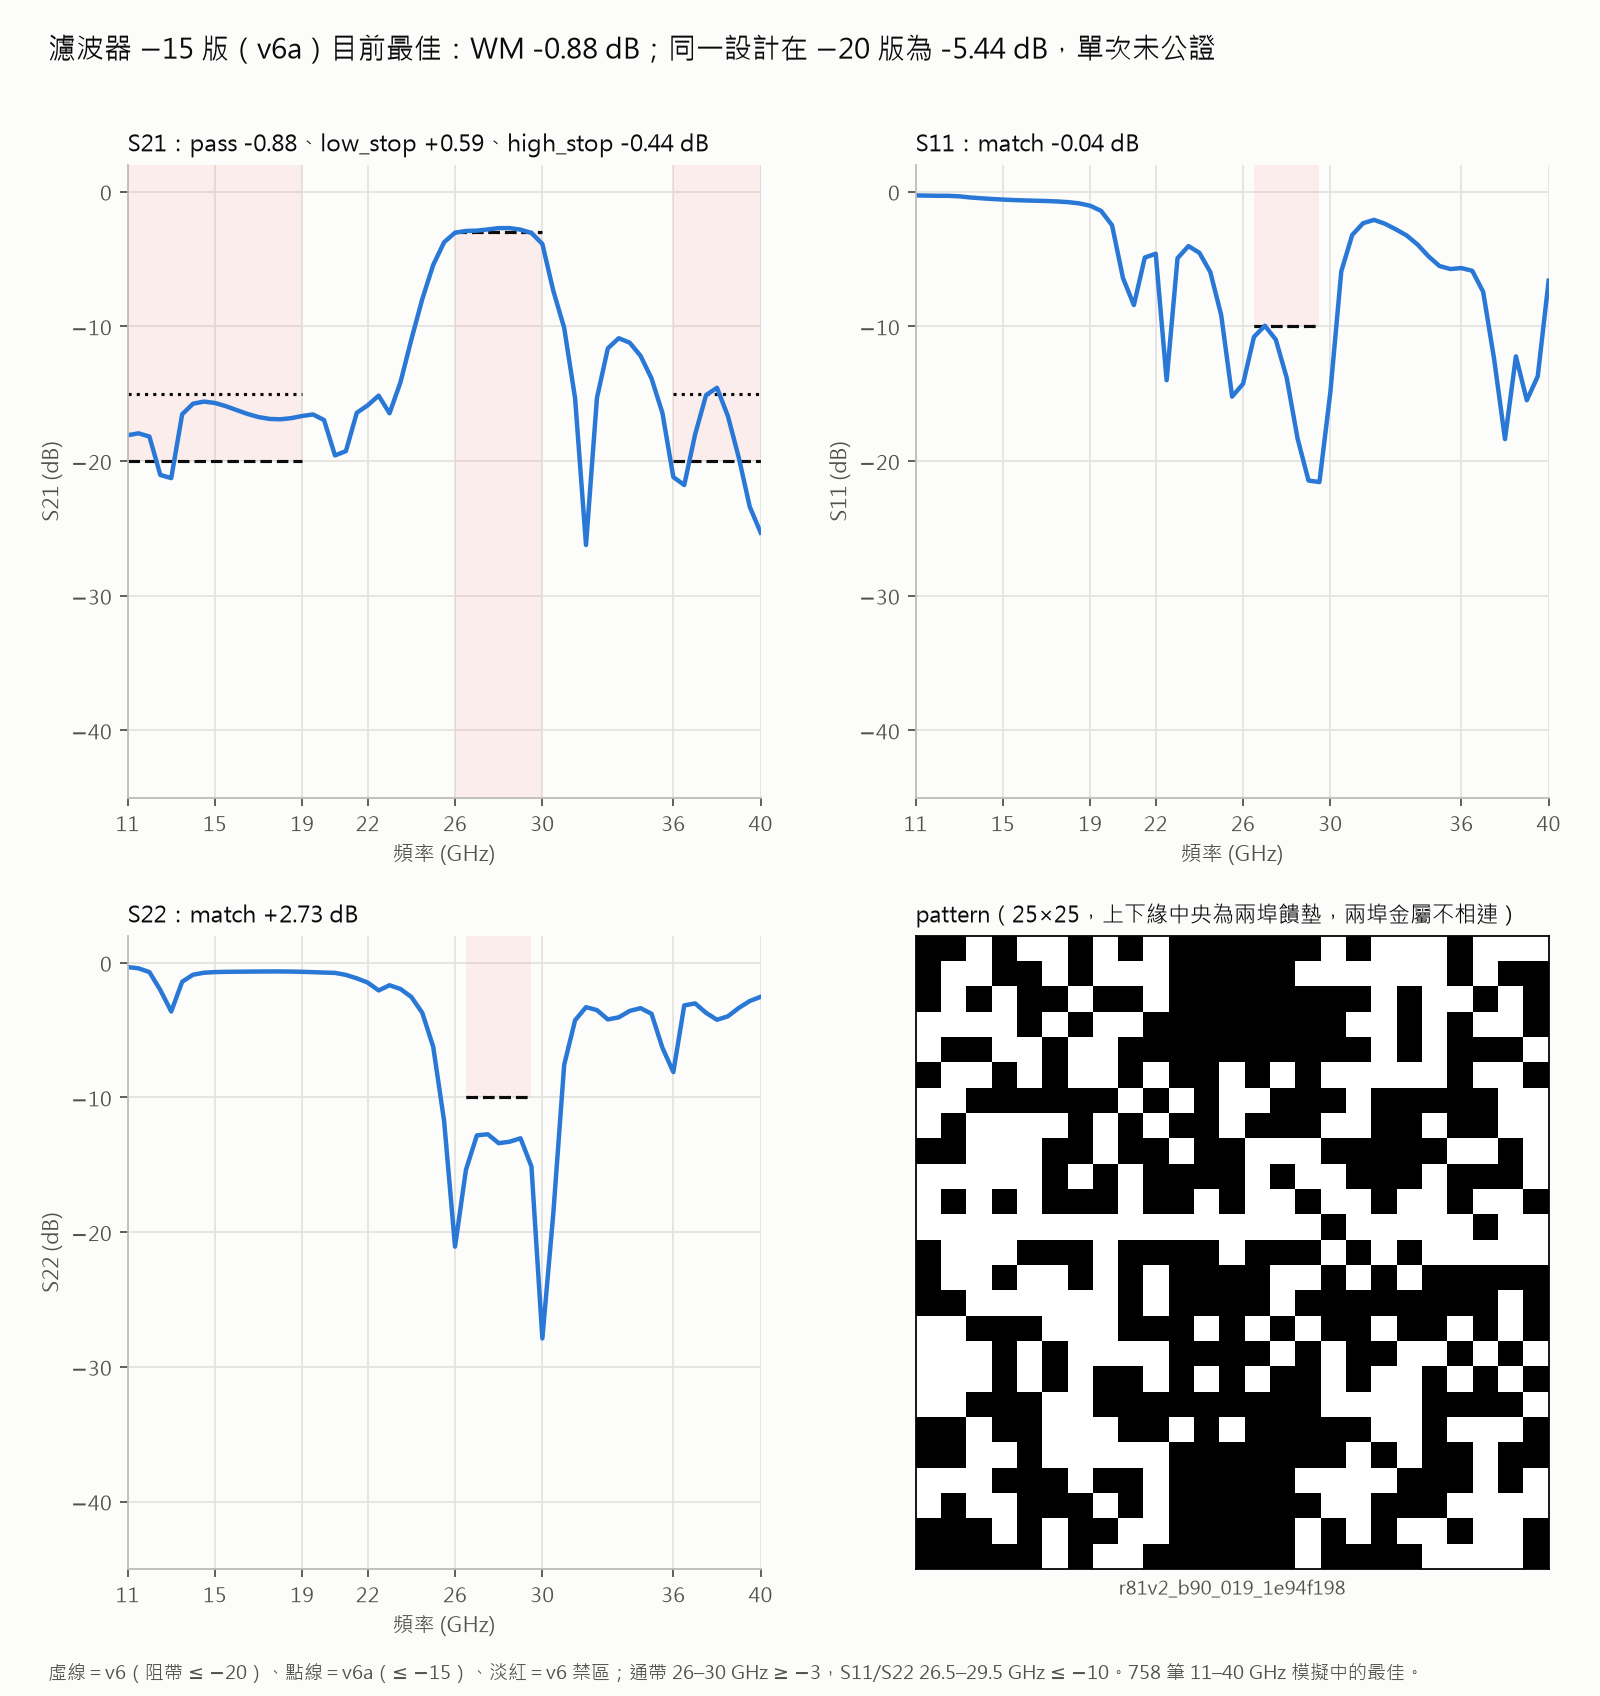
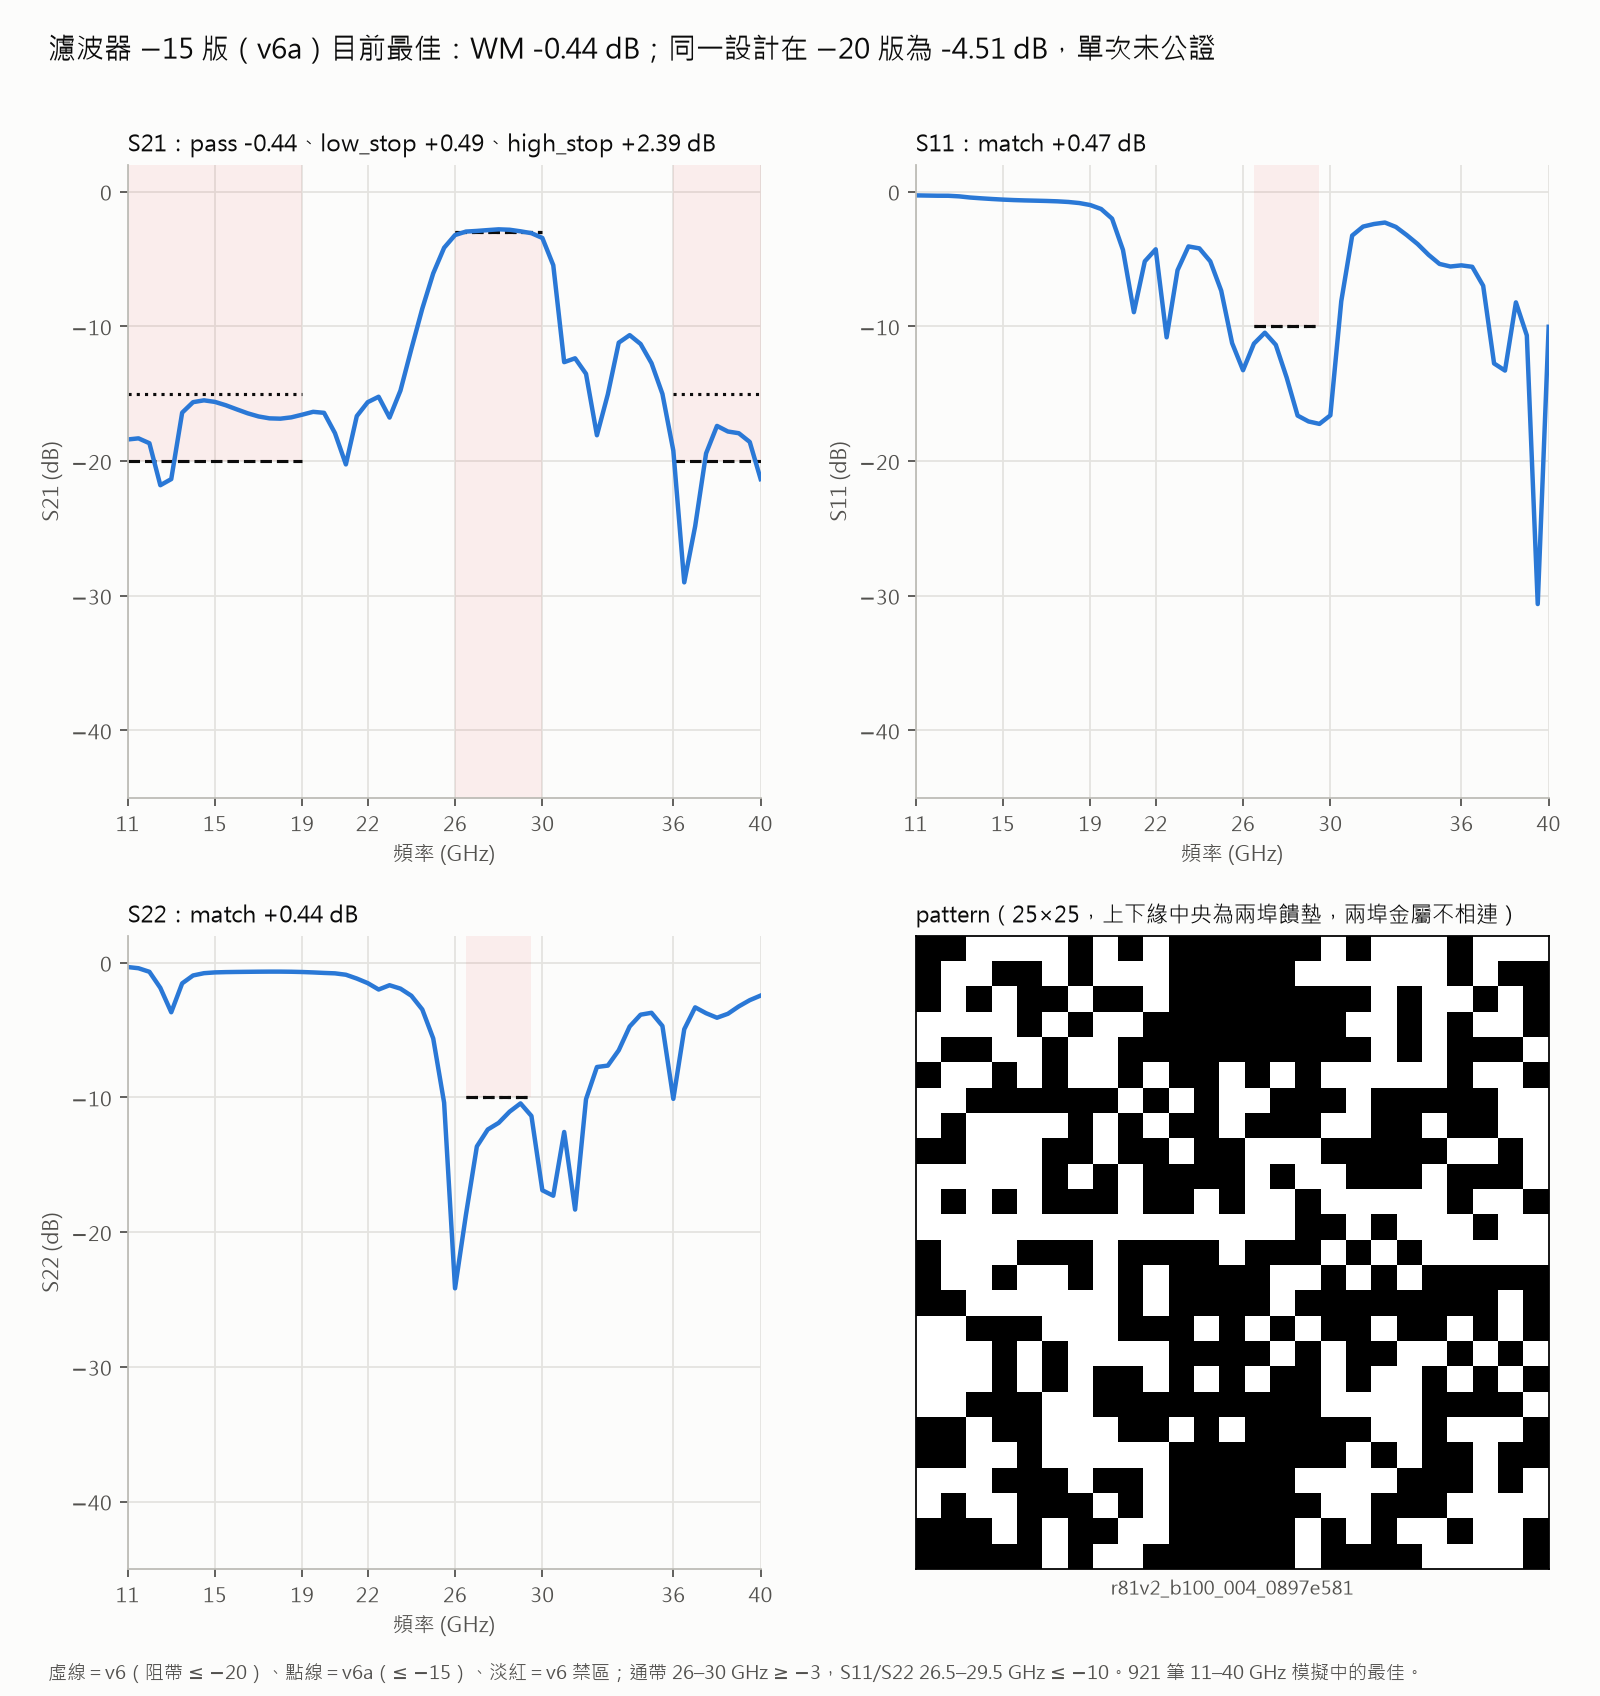
修批號解析只認兩位數（b100 起漏抓）：r81_v6 圖卡、r81_progress、r81_climb、r82_delta_sm.batch_of；重產 v6／v6a 圖卡
v6a 圖卡原本停在 b99_003 −0.46，修後為 b100_004 −0.44。batch_of 只用在離線回測的時間切分，建批訓練不受影響。補回歸測試。

diff --git a/tests/test_r82_delta_sm.py b/tests/test_r82_delta_sm.py
@@ -104,3 +104,9 @@ def test_inband_score_ignores_point_just_past_band_end():
     Y[0, 1, 2] = -30.0                                      # 頻段外（index 2）很差，不該影響分數
     s = dm.inband_score(Y, np.ones((1, 3, 3), bool), slices)
     assert np.isclose(s[0], 2.0)
+
+
+def test_batch_of_accepts_three_digit_batches():
+    assert dm.batch_of("dedust_r81v6b99s3") == 99
+    assert dm.batch_of("dedust_r81v6b100s2") == 100            # b100 起三位數，原 \d\d 漏抓（2026-10-20）
+    assert dm.batch_of("dedust_r81v6m03s1") == -1

diff --git a/script/figs/r81_progress.py b/script/figs/r81_progress.py
@@ -27,7 +27,7 @@ def load_rows(primary, final, grid):
     for store in sorted(root.glob("dedust_r81v*b??s?")):
         if not ((store / "results.json").exists() and (store / "measurement.json").exists()):
             continue
-        batch = int(re.search(r"b(\d\d)s\d$", store.name).group(1))
+        batch = int(re.search(r"b(\d+)s\d$", store.name).group(1))
         for r in sm.load_store(store, grid):
             a, b = sm.true_wm(r, primary, grid), sm.true_wm(r, final, grid)
             if a and b:

diff --git a/script/figs/r81_climb.py b/script/figs/r81_climb.py
@@ -24,7 +24,7 @@ EVENTS = [(2, "小步變異 1–8 格"), (3, "加爬山臂"), (20, "改用總不
 
 
 def batch_of(store):
-    m = re.search(r"b(\d\d)s\d$", store)
+    m = re.search(r"b(\d+)s\d$", store)
     return int(m.group(1)) if m else 0          # 首批 survey／工程掃描＝0
 
 

diff --git a/script/r82_delta_sm.py b/script/r82_delta_sm.py
@@ -32,7 +32,7 @@ _POP = np.array([bin(i).count("1") for i in range(256)], np.uint8)
 
 
 def batch_of(store):
-    m = re.search(r"r81v6b(\d\d)s\d$", store or "")
+    m = re.search(r"r81v6b(\d+)s\d$", store or "")
     return int(m.group(1)) if m else -1
 
 
